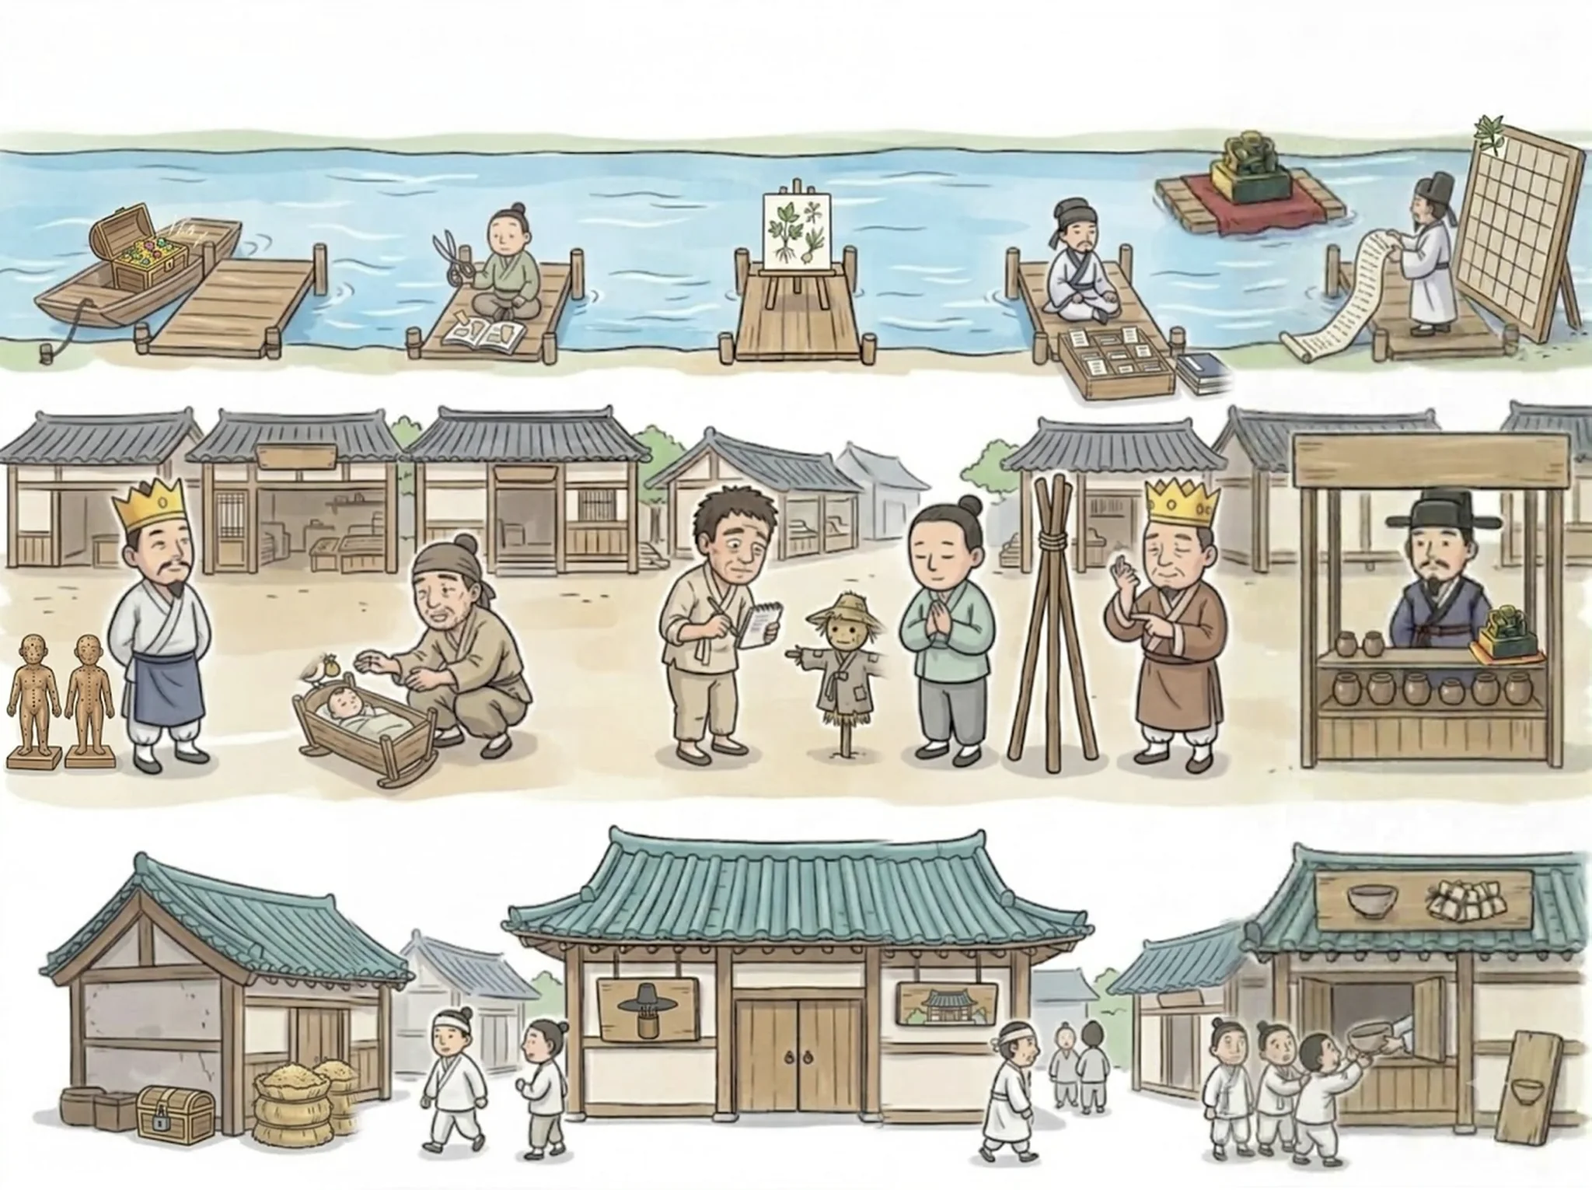
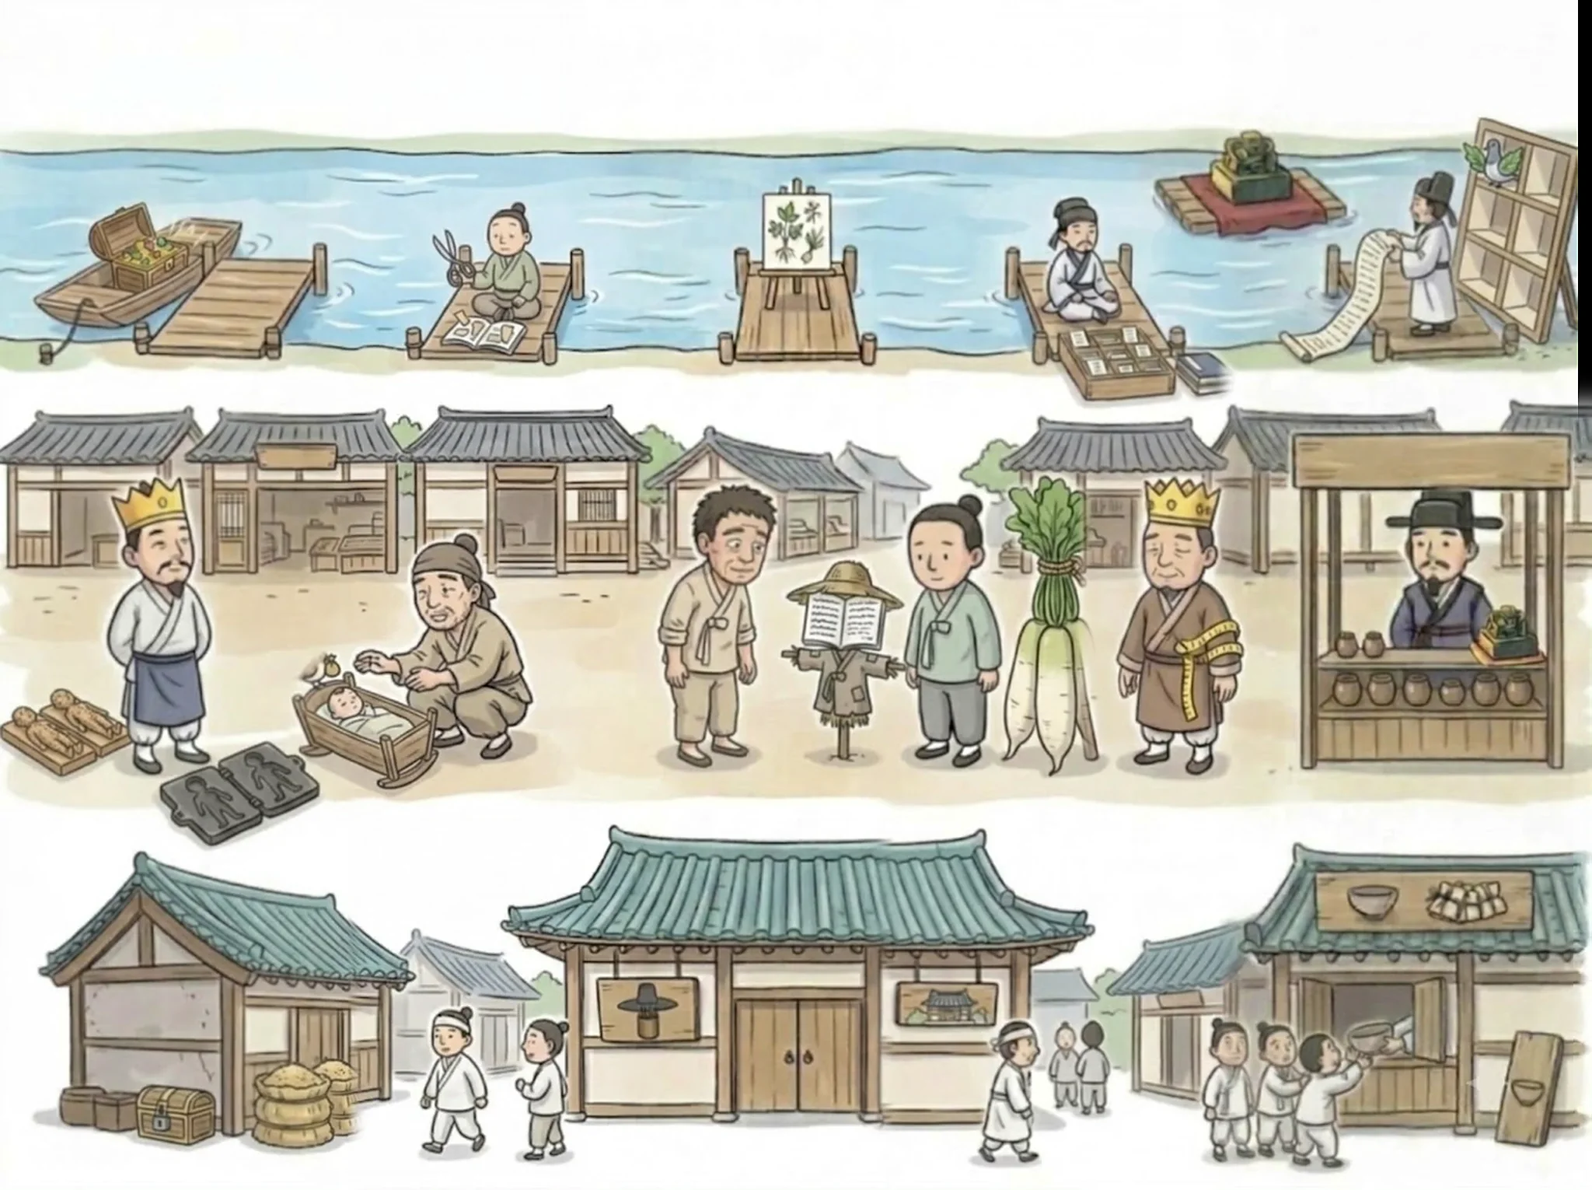
의학사 말판 ③줄 宋(r3a) v2: 기괴함 S 5행(王惟一 주물 틀·許叔微 수첩 허수아비·陳無擇 무 셋·王執中 줄자 손가락·衍義 비둘기장) · 구역 판독 z33·z45
Claude-Session: https://claude.ai/code/session_01H8LcZK4WVLkMjSUBUXBg6J

diff --git a/src/coverage/blind16z/z45.md b/src/coverage/blind16z/z45.md
@@ -1,0 +1,29 @@
+# z45 판독 (blind16z, 말판 ③줄 宋·金·元 세로 띠)
+
+## 1단계 — 생판 (사전 없이)
+
+**① 시대**: 중국 **北宋 후기~南宋·金(일부 元)** / 한국 **高麗** — 80%. 강의 본초 둘이 北宋 관찬·사찬 본초의 연속으로 읽히고, 흙길 끝의 왕관 노인이 元(금원 말) 쪽으로 읽힌다.
+
+**② 묶음별 판독**
+- 강(본초) — 부두 위 **이젤의 약초 도판**(뿌리까지 그린 식물 그림): 「그림 붙은 본초」 → **本草圖經**(蘇頌, 北宋, 전국 약재 그림 수집).
+- 강(본초) — 부두에 앉은 복두 선비 + **칸칸이 나뉜 표본 상자(이름표 붙음)** + 곁에 쌓인 책: 「분류(類)·경사(經史) 책을 모아 엮음」 → **經史證類備急本草**(唐愼微). 상자 칸 = 類, 책 더미 = 經史 인용.
+- 길 — **허수아비**(얼굴이 펼친 책, 밀짚모자): 「허수」 → **許叔微**, 책 = 普濟本事方(또는 傷寒九十論). 왼쪽의 수척한 평복 남자는 짝 소품이 불분명(허수아비의 주인 농부?).
+- 길 — **무 세 뿌리를 한 줄로 묶은 단**: 무(無) + 셋을 하나로 묶음 → **陳無擇 『三因極一病證方論』, 三因(內因·外因·不內外因)學說**. 곁의 초록 저고리 청년은 무 단과 짝인지 별개인지 불확실(대안: 成無己 注解傷寒論, 혹은 小兒 → 錢乙).
+- 길 — **금관 쓴 노인이 OK 손(엄지·검지 고리)을 손가락으로 가리킴**: 王(관) + 好(좋다 손짓) + 古(노인) → **王好古**(元, 易水學派, 陰證略例·湯液本草).
+- 거리(高麗) — 청기와 관청, 왼 간판 **갓 + 약통** → 官 + 藥: **太醫監** 또는 **尙藥局**(관영 의료). 오른 간판 **산속 절집** → 院/大悲: **東西大悲院**. 머리띠 두른 환자와 회색 옷 빈민들이 걸어옴 → 서민 구료 기관(惠民局 가능성도).
+
+**③ 잔결**: 왼쪽 수척한 평복 남자·초록 청년이 무엇을 나르는지 불명(빈 사람 소품 가능). 갓 밑 원통 안의 막대들(약숟가락? 산가지?) 뜻 불명. 오른쪽 위 붉은 천 뗏목·왼쪽 끝 부두·거리 양끝 인물은 이웃 띠 몫으로 무시.
+
+## 2단계 — 계통 (blind6_사전요약 어휘로 다시 읽기)
+
+**① 시대**: 중국 **北宋 후기~南宋·金·元** / 한국 **高麗** — 82%. 사전의 王(왕관)은 「무대가 어느 王인지 진다」 — 金元 흙길이므로 元의 王씨로 좁혀져 1단계 판독을 지지한다.
+
+**② 묶음별 재판독**
+- 강 — **이젤 약초 도판** → **本草圖經**(蘇頌). 사전에 해당 기호 없음 — 그림 자체로 읽힘(유지).
+- 강 — **칸 나뉜 표본 상자 + 經史 책 더미 + 앉은 선비** → **經史證類備急本草**(唐愼微). 상자 속 물건은 會(담는 것 안에 담긴 것)로도 읽히나 宋 본초 계보에 會 서명이 없어 기각, 類(분류)로 유지.
+- 길 — **허수아비(밀짚모자 + 책 얼굴)**: 사전 脾 = 노란 밀짚모자 **농부**. 허수아비는 농부가 아니라 「가짜 농부」이므로 脾 조건이 완전히 맞지 않는다. 1순위는 여전히 소리 말장난 허수아비 → **許叔微**(普濟本事方·傷寒九十論, 최초의 傷寒 醫案集). 2순위로 밀짚모자=脾 + 책 = 『**脾胃論**』(李東垣, 補土派)가 걸리나 李(자두)가 없어 약함.
+- 길 — **상투 튼 청년 + 무 세 뿌리 한 단**: 무 = 無(소리), 셋을 끈 하나로 묶음 = 三→一 → **陳無擇 『三因極一病證方論』, 三因學說**(1순위). 사전 久(셋이 포개짐)는 「포개짐」이 아니라 나란히 묶음이라 불일치, 典藥(약봉지 다발)도 약봉지가 아니라 불일치. 상투(成人)=成 + 무=無 → **成無己**(注解傷寒論, 최초의 傷寒論 全文 注解)는 2순위.
+- 길 — **왕관 노인 + OK 손짓 가리킴**: 王(사전 확정) + 好(손짓) + 古(노인) → **王好古**(元, 易水學派, 陰證略例·湯液本草). 무대가 金元이라 王의 갈림 조건 충족.
+- 거리(高麗) — 왼 간판 **테 넓은 큰 갓** = 사전 **太**, 그 밑 침통(바늘 꽂힌 원통) = 醫로 보면 → **太醫監**(고려 중앙 의료행정·의학교육·醫科). 오른 간판 **기와지붕 절 한 채** = 사전 **寺** → 한 건물에 간판 둘 = 같은 기관의 개칭 → **典醫寺**(太醫監의 후기 이름). 1단계의 「갓=官·절=大悲院」은 사전 어휘로 더 잘 풀려 교체. 大(둘 중 하나가 두 배)는 뒤의 회색 두 사람이 같은 크기라 성립 안 함 → 大悲院 기각.
+
+**③ 잔결**: 왼쪽 수척한 평복 남자(소매 걷은 팔뚝 — 充 조건인 「팔뚝 위에 더해진 것」이 없음)와 거리의 흰 머리띠 행인·회색 두 사람은 기호로 안 풀린다(빈 소품 또는 이웃 띠 연결). 갓 밑 원통이 醫인지(사전에 醫 없음) 불확실. 「허수아비 밀짚모자」가 脾 기호와 겹쳐 오독 위험.

diff --git a/src/coverage/blind16z/z33.md b/src/coverage/blind16z/z33.md
@@ -1,0 +1,38 @@
+# z33 판독 (말판 ③줄 세로 띠)
+
+## 1단계 — 생판 (사전 없이)
+
+**① 시대**: 중국 **北宋** / 한국 **高麗 전기** — 확신도 85%.
+근거: 강의 「보물상자(寶)를 연(開) 배」 = 開寶本草(973), 흙길의 동인(銅人) 주형 = 1027년 銅人 주조, 거리의 「잠긴 보물상자+곡식 섬」 = 光宗代 濟危寶(963). 셋이 모두 10~11세기로 맞물린다.
+
+**② 묶음별 판독**
+- 강(본초) 왼쪽 — 뚜껑 열린 보물상자를 실은 배: **開寶本草**(開=열다, 寶=보물). 宋 최초의 관찬 본초.
+- 강(본초) 오른쪽 — 맨머리 평복 사내가 가위로 책을 오려 조각을 늘어놓음: **證類本草**(唐慎微 『經史證類備急本草』) 1순위 — 경사(經史)·제서에서 발췌를 「오려 모은」 집성, 평복 = 布衣(민간) 의사. 2순위 **本草衍義**(寇宗奭), 3순위 嘉祐補註本草.
+- 흙길 왼쪽 — 왕관(王)에 동그라미 하나(一)를 단 앞치마 차림 장인, 발치에 점 찍힌 인형 2구 + 사람 모양 두 짝 주형: **王惟一** — 『銅人腧穴鍼灸圖經』, 針灸銅人 **2구 주조**(경혈 점), 앞치마 = 주조 장인.
+- 흙길 오른쪽 — 쭈그린 노인이 요람 아기를 돌보고, 요람 끝에 돈주머니를 문 새: **錢乙**(錢=돈주머니, 乙=새) — 『小兒藥證直訣』, 소아과의 성인(兒科之聖)·소아과 독립.
+- 거리(한국) 왼쪽 — 자물쇠 채운 보물상자 + 곡식 섬 + 창고: **濟危寶**(寶=기금, 곡식 이자로 빈민 구료, 光宗 14년 963).
+- 거리(한국) 오른쪽 — 머리띠 학생 둘이 「갓 + 약단지」 간판 집으로 걸어감: **太醫監**(의학 교육·醫業) 1순위, 2순위 **尙藥局**(갓 모양 = 尙자 / 官) 또는 惠民局(官營 약 판매).
+
+**③ 잔결**
+- 錢乙이 손끝으로 무언가를 집어 떨어뜨리는 손짓 — 환약(六味地黃丸 창방?)인지 불명.
+- 王惟一 주형이 검은 돌처럼 그려져 「石刻 圖經」과도 겹쳐 읽힘.
+- 거리 오른쪽 간판 건물이 오른쪽 끝에서 잘림 — 학생 묶음이 이웃 띠 소속일 가능성. 흙길 맨 오른쪽 잘린 사람은 이웃 띠 몫으로 무시.
+- 흙길 뒤편 3채 가게 간판이 모두 빈칸 — 배경.
+
+## 2단계 — 계통 (blind6 사전 적용)
+
+**① 시대**: 그대로 **北宋** / **高麗 전기** — 85%. 사전의 「王 = 성까지만, 어느 王인지는 무대가 진다」가 오히려 무대(宋)를 먼저 확정하게 만든다.
+
+**② 묶음별 재판독**
+- 강 왼쪽 — 열린 보물상자 실은 배: **開寶本草** 유지. 사전의 藥(배 모양 약연)과 배가 겹쳐 보이나, 강의 배는 레인 문법(본초 계보) 자체로 읽는 편이 자연스럽다. 寶·開는 사전 미등재 → 그림 자체로 해독.
+- 강 오른쪽 — 가위로 책 오리는 평복 사내: 사전에 해당 기호 없음. **證類本草**(唐慎微, 경사에서 발췌 집성) 1순위 유지, 확신 낮음(50%). 대안 **本草衍義**.
+- 흙길 왼쪽 — 왕관 = **王**(사전 확정: 성 王). 무대 北宋 + 경혈 점 찍힌 인형 2구 + 두 짝 주형 → **王惟一**, 『銅人腧穴鍼灸圖經』·針灸銅人 2구 주조. 사전으로 성이 고정되어 1단계보다 확실(90%).
+- 흙길 오른쪽 — 돈주머니 문 새 + 요람 아기: **錢乙** 유지(錢·乙은 사전 미등재). 『小兒藥證直訣』, 兒科之聖. 단, 끈으로 아가리를 조인 주머니가 사전의 收(조인 삼베 자루)와 모양이 겹친다 — 여기선 크기가 작고 새가 물고 있어 「돈주머니=錢」으로 판정.
+- 거리 왼쪽 — 자물쇠 보물상자 + 곡식 섬 + 창고: 사전의 倉은 「곳간 **안**」, 藏은 「문 열린 곳간 안」인데 여기는 문 닫힌 창고 **밖**에 섬이 놓여 둘 다 조건 미달. 濟(물에 드리운 밧줄)도 없음 → 寶(상자)+곡식 기금으로 **濟危寶** 유지(65%). 倉으로 읽으면 義倉·常平倉 후보.
+- 거리 오른쪽 — 간판의 「테 넓은 큰 갓」 = 사전 **太**, 갓 씌운 단지 = 醫자 아래 酉(술단지) → 太醫. 머리띠 학생 둘 = 의학 교육 → **太醫監**(고려 의학 교육·醫業 관장). 1단계 2순위였던 尙藥局은 탈락. 사전으로 더 잘 풀림(80%).
+
+**③ 잔결**
+- 가위·오린 책 조각(강 오른쪽)은 사전에 없어 표제어를 끝내 못 박음.
+- 錢乙의 집는 손짓(환약?) 미해독. 새 주머니의 收 형태 누수.
+- 창고 앞 곡식 섬이 倉/藏 조건과 어긋남(문 닫힘·밖) — 濟危寶의 濟 기호 부재.
+- 太醫監 건물이 오른쪽 끝에서 잘림 — 이웃 띠와 이어 붙인 경계.

diff --git a/src/coverage/blind16z/z61.md b/src/coverage/blind16z/z61.md
@@ -1,0 +1,41 @@
+# z61 판독 (말판 ③줄 宋·金·元, 세로 띠)
+
+## 1단계 — 생판 (사전 없이)
+
+**① 시대**: **元 / 高麗** (75%) — 흙길 뒤에 몽골 게르(ger)가 늘어서 있고, 인물은 단추 여밈 원대(몽골)식 짙은 남색 포에 둥근 모자. 2순위 金/高麗 (15%).
+
+**② 레인별 묶음**
+- 강(本草): 이 띠 안에는 소품 없음. 모래 언덕을 낀 빈 물줄기뿐.
+- 흙길: 원대 복장의 노인 + 돌우물(석축)에서 솟는 큰 불길 + 우물에 기대 세운 눈꽃 무늬 둥근 부채(團扇). 게르마다 굴뚝 끝에 횃불(띠 안에 5개).
+  → **朱震亨(朱丹溪)**: 물 담는 우물(水=腎) 안에서 타는 불 = 「相火寄於肝腎」 **相火論**. 눈꽃 부채(식히기) = **滋陰降火** → **滋陰派(養陰派)**, 「陽常有餘 陰常不足」. 붉은 불(朱·丹)과 단선(團扇)의 「단」 소리도 丹溪 쪽으로 기운다.
+  2순위 **劉完素** 寒涼派: 굴뚝마다 붙은 불 = 「六氣皆從火化」 또는 五志化火, 부채 = 寒涼. 다만 劉완素는 金 사람인데 게르는 元을 가리켜서 朱丹溪를 앞에 둔다.
+- 거리(한국): 청기와 집 2채(좌우) + 뒤채 1, 오른쪽 집은 툇마루 평상과 안쪽 진열 선반이 있는 가게. 흰옷 아이 둘(하나는 머리띠)이 웃으며 가게 쪽으로 걸어간다.
+  → **惠民局**(고려 관설 약국. 백성에게 약을 팔거나 나눠 줌). 2순위 **東西大悲院**(동·서 두 채, 빈민 구료).
+
+**③ 잔결**
+- 횃불 5개가 개수를 나르는지 단순 배경인지 모르겠다.
+- 부채가 불 한가운데 서 있는데도 타지 않는다(의도된 대비로 보임).
+- 머리띠를 맨 아이와 안 맨 아이를 구분한 뜻을 모르겠다.
+- 가게 오른쪽 아래에 ✦ 반짝이 표식이 있다(워터마크나 합성 흔적으로 추정).
+- 왼쪽 끝 책상 앞 선비와 오른쪽 끝 말은 이웃 띠 몫이라 판독에서 뺐다.
+- 레인 사이 이음매는 흰 띠로 깨끗하게 나뉜다.
+
+## 2단계 — 계통 (blind6_사전요약 어휘로 다시 읽기)
+
+**① 시대**: **金 / 高麗** (60%). 元/高麗는 35%로 내린다. 다시 보니 인물 복장은 단추 매듭(盤扣) 포에 꼭지 달린 둥근 모자라서 몽골보다 만주(=女眞)풍에 가깝다. 게르는 「북방 정복왕조」 무대로 金과 元 모두에 쓰일 수 있다. 시대를 가르는 결정타는 아래 ②의 표제어다.
+
+**② 레인별 묶음**
+- 강(本草): 등재 기호 없음. 빈 물줄기다.
+- 흙길: 사전 기준으로 불꽃 = 熱(또는 陽), 눈송이 = 寒이다. 부채는 사전에 없지만 바람을 일으키니 「涼」으로 읽힌다. 그러면 눈송이 부채 하나가 **寒涼**이 된다. 「살아 있는 불과 맞댄 얼음이나 졸아드는 물」로 그리는 陰 기호는 띠 어디에도 없다. 우물도 말라서 물이 안 보인다. 그래서 1단계 1순위였던 朱丹溪(滋陰, 陽有餘陰不足)는 근거가 약해진다.
+  → **劉完素(劉河間)**: 큰 불 = **火熱論(主火論)**, 게르 굴뚝마다 붙은 불 = 「**六氣皆從火化**」(띠 안에 5개, 여섯째는 이웃 띠로 잘렸을 수 있음), 눈송이 부채 = **寒涼派**(河間學派)이다. 돌우물(샘 = 源/原)이 『素問玄機**原**病式』의 「原」을 나를 수도 있다(약한 추정).
+  2순위 **朱震亨**: 우물 속 불 = 相火寄於肝腎. 다만 사전의 陰 기호가 빠져 있어서 2순위로 둔다.
+- 거리(한국): 惠(빈 사발)·濟(밧줄)·藥(약연)·典藥(약봉지)·太(갓)·寺(절) 가운데 어느 기호도 보이지 않는다. 기와집 둘이 나란하고 오른쪽 집이 커서 大(하나가 두 배)일 수 있지만, 양쪽 집이 다 잘려 있어 판정할 수 없다. 오른쪽 가게 선반이 3층장이면 官일 수 있으나 층수가 안 보인다.
+  → 표제어는 약하게 **惠民局**(1112년이라 金 무대와 맞는다. 흰옷 = 백성 「民」 소리)으로 남긴다. 2순위는 **東西大悲院**(두 채와 大)이다.
+
+**③ 잔결**
+- 사전에 없는 「부채 = 涼」을 끌어와야 寒涼이 완성된다.
+- 다섯 횃불이 개수(六氣 또는 五志)를 나르는지 확정할 수 없다.
+- 우물이 原을 나르는지 모르겠다.
+- 거리 레인에는 등재 기호가 하나도 없어 묶음이 「말을 하지 않는다」.
+- 가게의 ✦ 반짝이는 합성 흔적으로 보인다.
+- 오른쪽 이웃 띠의 고삐 맨 말(馬, 劉完素 문인 馬宗素일 가능성)은 이 띠 몫이 아니어서 판독에서 뺐다.

diff --git a/src/coverage/blind16z/z56.md b/src/coverage/blind16z/z56.md
@@ -1,0 +1,25 @@
+# z56 판독 (blind16z)
+
+## 1단계 — 생판 (사전 열기 전)
+
+**① 시대**: 中 **元** / 韓 **高麗** — 80%. 가운데 흙길 뒤에 몽골식 게르(굴뚝마다 불꽃)가 줄지어 있어 유목 왕조 = 元(일부 金 가능). 아래 거리는 청기와 목조 가옥·평상·상투 튼 소년 = 고려풍(조선 초 가능성 소수).
+
+**② 말하는 묶음**
+- 뒤 강(본초): 강이 왼쪽에서 갈래(지류)가 합류·분기하는 모양뿐, 소품 없음 → 이 띠에서 말하는 본초서 없음(본초 계보의 「갈래」 표시일 수는 있음).
+- 가운데 길 왼쪽: 금빛 둥근 메달(거울?)을 목에 건 학자 + 붓걸이에 큰 붓 4자루 + 책상 위 펼친 책 둘레에 노란 쪽지 10여 장 + 사다리 무늬 표지의 책. 표제어 후보 **敖氏傷寒金鏡錄**(금빛 원반 = 金鏡, 쪽지 = 설태 그림 36幅, 최초 설진 전문서) / 차선 **金元四大家** 총괄(금 메달 = 金, 붓 4 = 四大家) / **羅天益 衛生寶鑑**(寶鑑 = 보배 거울).
+- 가운데 길 오른쪽(왼쪽 인물보다 뒤 = 늦은 활동): 호스로 눈송이 섞인 찬물을 돌화덕 속 큰 불에 퍼붓는 인물 → 표제어 **朱震亨(丹溪)** — 滋陰派(養陰派), 相火論 「陽常有餘 陰常不足」, 滋陰降火. 차선 **劉完素** 寒凉派(火熱論, 「六氣皆從火化」) — 눈송이(寒)가 寒凉을 가리킬 수 있으나 元 배경이면 丹溪 우선.
+- 앞 거리(고려): 기와집 두 채, 흰 머리띠 두른 소년과 동행 소년이 걸어감. 머리띠 = 붕대 → **鄕藥救急方**(구급)? 확신 낮음. 뚜렷이 말하는 소품 없음.
+
+**③ 잔결**: 강이 텅 빔(본초 소품 0). 게르 굴뚝 불꽃이 상징(火)인지 단순 배경인지 불명. 쪽지 개수(10여 장)·사다리 무늬 책·붓 4자루의 정확한 뜻 미확정. 아래 거리 두 소년과 왼쪽 회벽 창고형 건물은 뜻 없음(이웃 띠 몫일 가능성). 오른쪽 끝 화덕 물줄기가 화면 밖으로 잘려 이어 붙임 경계로 보임.
+
+## 2단계 — 계통 (blind6 사전 어휘로 다시 읽기)
+
+**① 시대**: 中 **金**(차선 元) / 韓 **高麗** — 60%. 사전으로 보니 오른쪽 인물은 寒凉派로 읽히고(아래), 그러면 무대는 金이다. 게르는 「북방 이민족 왕조」의 일반 표지로 보고, 元이면 朱震亨으로 바뀐다(35%).
+
+**② 말하는 묶음**
+- 가운데 길 오른쪽: 눈송이(寒) + 맑고 찬 물(淸)을 호스로 뿜어 불꽃(熱)을 끈다 = 寒凉으로 火熱을 다스림. 뒤편 게르 굴뚝마다 불꽃(熱) = 온 천지가 불 → 主火論. 표제어 **劉完素(河間)** — 寒凉派, 火熱論, 「六氣皆從火化」, 金元四大家의 첫째. 사전의 陰(얼음·졸아드는 고인 물)은 화면에 없으므로 滋陰派 **朱震亨**은 차선으로 내린다.
+- 가운데 길 왼쪽(劉完素보다 앞 = 먼저 활동): 금메달 = 「최초」(1등), 펼친 원전 둘레에 빽빽이 붙인 쪽지 = 주석. 표제어 **成無己 『注解傷寒論』** — 『傷寒論』 전문에 처음 주를 단 책(『傷寒明理論』도 그의 저서). 금빛 원반을 거울로 보면 **『敖氏傷寒金鏡錄』**(최초의 설진 전문서)이 차선이지만, 혀(舌·苔) 기호가 없어 낮춘다. 붓 4자루는 사전에 없는 기호이며, 「四大家」를 예고하는 것일 수 있다.
+- 뒤 강(본초): 소품 없음, 이 띠에서 말하는 본초서 없음.
+- 앞 거리(고려): 기와집(寺 조건인 「절」 아님), 머리띠 소년 둘 — 太(테 넓은 큰 갓)·惠(빈 사발)·倉(곡식 가마니)·濟(밧줄) 어느 기호도 맞지 않는다 → 말하는 묶음 없음(1단계의 鄕藥救急方 추정은 철회).
+
+**③ 잔결**: 붓걸이의 붓 4자루(끝 하나만 붉다)와 사다리 무늬 표지의 책은 사전에 없다. 불을 둘러싼 돌 우물형 화덕은 內(담 안쪽)로 읽힐 여지가 있지만 사실과 이어지지 않는다. 고려 거리의 소년 둘과 회벽 창고형 건물은 뜻이 없다. 강은 비어 있다. 오른쪽 끝의 물보라는 띠 경계에서 잘렸다.

diff --git a/src/coverage/blind16_report.md b/src/coverage/blind16_report.md
@@ -1,0 +1,22 @@
+# blind16 — 의학사 말판 ③줄 기괴함 적용판 구역 판독 (2026-10-14)
+
+기괴함 설계(`bizarre/기괴함_설계_20261013.md`)를 적용하며, 구역을 그릴 때마다 맹독자 1세션(blind16z)으로 복원을 확인했다. 모델: 바탕·1차 편집은 3.5 Flash-Lite, 수정은 4 Argon(사용자 지시).
+
+## 元 (r3c v2 — 바탕부터 다시)
+
+| 구역 | 세션 | 결과 | 조치 |
+|---|---|---|---|
+| YC1 滑壽·王履 | z24 | ✗ 왕관 노인 → 王好古(동률 王履) · 짚신 연어 = 「묶인 물고기」 · 앉은 아이 = 下 | 노인 → 젊은이 · 연어 2회 더 시도 후 짚신 한 켤레(A→B) · 아이 타고 내려오게 |
+| YB2 杜本·朱震亨 | z37 | ✓ 敖氏傷寒金鏡錄·최초 舌診(두꺼비 = 杜까지) · 朱震亨 陽常有餘陰常不足·滋陰派 | 사모 날개 → 관모(太 15% 경고) |
+| YA3 王好古·竇默·鄕藥 | z51 | 王好古 ✓(湯液·陰) · 鄕藥 ✓ · 竇默 ✗ 忽思慧(쟁반 묵 = 음식) | 묵을 나침반답게 |
+| YD2 診脈圖訣 | z66 | ✗ 鄕藥救急方(맥박 = 救急, 봉우리 = 피라미드, 두건 = 승려) | **三峯 기호 신설** + 두건 → 관모 |
+| YA4 竇默 | z72 | ✗ 滑壽/朱丹溪(묵 = 滑) | 묵 포기 → 둥근 나침반(A→B) |
+| YC5 | z83 | ✓ 滑壽 十四經發揮 · 王履 醫經溯洄集(王+발자국+짚신) | — |
+| YD3 | z19 | ✓ **鄭道傳 診脈圖訣 85%** — 1단계부터 | — |
+| YA5 | z88 | ✓ 竇漢卿 鍼經指南·標幽賦 · 王好古 · 鄕藥救急方 | — |
+
+## 宋 (r3a 위 구역 편집)
+
+| 구역 | 세션 | 결과 | 조치 |
+|---|---|---|---|
+| SA 王惟一 | z33 | ✓ 王惟一 90% — 銅人 2具·주형 | — |
